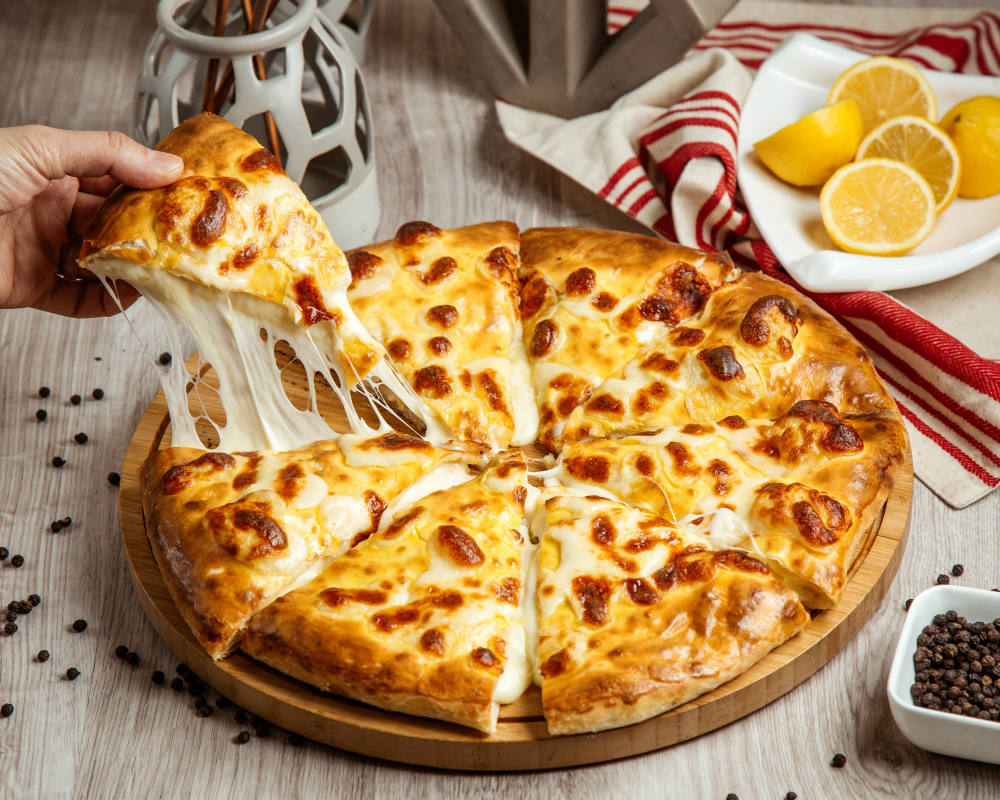
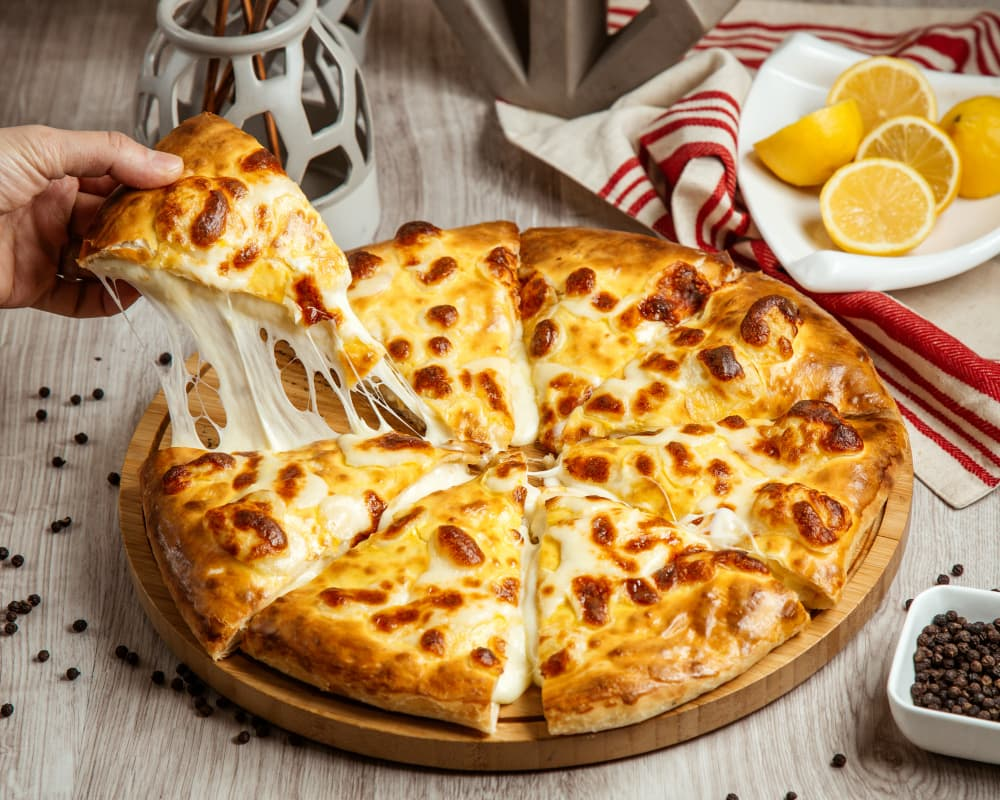
feat: fotos representativas dos sabores (Unsplash) e destaques explicitos
- 7 fotos novas do Unsplash (licenca Unsplash, sem marca d'agua), conferidas uma a uma:
  margherita, brocolis, frango-brocolis, bolonhesa, milho, calabresa, presunto
- 23 sabores ligados a fotos por grupo de sabores semelhantes; sabores sem foto fiel ficam no placeholder
- calabresa.jpg (era pepperoni) renomeada para peperone.jpg e usada so no sabor Peperone
- removida chocolate-com-morango.jpg (marca d'agua de banco de imagens); sabor volta ao placeholder
- 4-queijos.jpg e siciliana.jpeg recomprimidas (~1,2 MB para ~120 KB)
- FEATURED_FLAVOR_IDS agora e uma lista explicita de 8 sabores
- CREDITS.md com fotografo, URL e sabores de cada foto
- testes: formato dos caminhos, arquivos servidos como JPEG e destaques validos

diff --git a/src/app/data/menu.data.ts b/src/app/data/menu.data.ts
@@ -68,28 +68,28 @@ function flavor(
 const TRADICIONAIS: PizzaFlavor[] = [
   flavor('tradicional', 'Frango com Calabresa Ralada', 'Mussarela, frango, calabresa ralada, ovos, bacon e catupiry'),
   flavor('tradicional', 'Frango Catupiry', 'Mussarela, frango e catupiry', undefined, 'assets/img-flavors/frango-com-catupiry.jpg'),
-  flavor('tradicional', 'Fran-Palha', 'Mussarela, frango, catupiry e batata palha'),
+  flavor('tradicional', 'Fran-Palha', 'Mussarela, frango, catupiry e batata palha', undefined, 'assets/img-flavors/frango-com-catupiry.jpg'),
   flavor('tradicional', 'Frango com Cheddar', 'Mussarela, frango e cheddar'),
-  flavor('tradicional', 'Fran-Brócolis', 'Mussarela, frango e brócolis'),
+  flavor('tradicional', 'Fran-Brócolis', 'Mussarela, frango e brócolis', undefined, 'assets/img-flavors/frango-brocolis.jpg'),
   flavor('tradicional', 'Quatro Queijos', 'Mussarela, gorgonzola, provolone e catupiry', undefined, 'assets/img-flavors/4-queijos.jpg'),
-  flavor('tradicional', 'Quatro Queijos com Bacon', 'Mussarela, catupiry, gorgonzola, provolone e bacon'),
+  flavor('tradicional', 'Quatro Queijos com Bacon', 'Mussarela, catupiry, gorgonzola, provolone e bacon', undefined, 'assets/img-flavors/4-queijos.jpg'),
   flavor('tradicional', 'Carijó', 'Mussarela, frango, milho e ovos'),
   flavor('tradicional', 'Americana', 'Mussarela, calabresa, bacon, ovos e cebola', undefined, 'assets/img-flavors/americana.jpg'),
-  flavor('tradicional', 'Mussarela', 'Mussarela e tomate'),
-  flavor('tradicional', 'Brócolis', 'Mussarela, brócolis e bacon', 'Opção catupiry'),
+  flavor('tradicional', 'Mussarela', 'Mussarela e tomate', undefined, 'assets/img-flavors/margherita.jpg'),
+  flavor('tradicional', 'Brócolis', 'Mussarela, brócolis e bacon', 'Opção catupiry', 'assets/img-flavors/brocolis.jpg'),
   flavor('tradicional', 'Baiana', 'Mussarela, calabresa ralada, molho de pimenta, ovos e cebola'),
-  flavor('tradicional', 'Bolonhesa', 'Mussarela e molho bolonhesa'),
-  flavor('tradicional', 'Bolonhesa Catu-Cheddar', 'Mussarela, carne moída, catupiry e cheddar'),
-  flavor('tradicional', 'Quatro Queijos com Calabresa', 'Mussarela, gorgonzola, provolone, catupiry e calabresa'),
-  flavor('tradicional', 'Quatro Queijos com Lombo', 'Mussarela, gorgonzola, provolone, catupiry e lombo'),
-  flavor('tradicional', 'Quatro Queijos com Calabresa e Lombo', 'Mussarela, catupiry, provolone, gorgonzola, calabresa e lombo'),
+  flavor('tradicional', 'Bolonhesa', 'Mussarela e molho bolonhesa', undefined, 'assets/img-flavors/bolonhesa.jpg'),
+  flavor('tradicional', 'Bolonhesa Catu-Cheddar', 'Mussarela, carne moída, catupiry e cheddar', undefined, 'assets/img-flavors/bolonhesa.jpg'),
+  flavor('tradicional', 'Quatro Queijos com Calabresa', 'Mussarela, gorgonzola, provolone, catupiry e calabresa', undefined, 'assets/img-flavors/4-queijos.jpg'),
+  flavor('tradicional', 'Quatro Queijos com Lombo', 'Mussarela, gorgonzola, provolone, catupiry e lombo', undefined, 'assets/img-flavors/4-queijos.jpg'),
+  flavor('tradicional', 'Quatro Queijos com Calabresa e Lombo', 'Mussarela, catupiry, provolone, gorgonzola, calabresa e lombo', undefined, 'assets/img-flavors/4-queijos.jpg'),
   flavor('tradicional', 'Calabresa', 'Mussarela e calabresa', 'Opção cebola ou catupiry', 'assets/img-flavors/calabresa.jpg'),
-  flavor('tradicional', 'Calabresa Catu-Cheddar', 'Mussarela, calabresa, catupiry e cheddar'),
-  flavor('tradicional', 'Marguerita', 'Mussarela, tomate, parmesão e manjericão'),
-  flavor('tradicional', 'Milho com Bacon', 'Mussarela, milho e bacon'),
+  flavor('tradicional', 'Calabresa Catu-Cheddar', 'Mussarela, calabresa, catupiry e cheddar', undefined, 'assets/img-flavors/calabresa.jpg'),
+  flavor('tradicional', 'Marguerita', 'Mussarela, tomate, parmesão e manjericão', undefined, 'assets/img-flavors/margherita.jpg'),
+  flavor('tradicional', 'Milho com Bacon', 'Mussarela, milho e bacon', undefined, 'assets/img-flavors/milho.jpg'),
   flavor('tradicional', 'Paulista', 'Mussarela, palmito e ervilha'),
-  flavor('tradicional', 'Romana', 'Mussarela, presunto, tomate e parmesão'),
-  flavor('tradicional', 'Napolitana', 'Mussarela, tomate e parmesão'),
+  flavor('tradicional', 'Romana', 'Mussarela, presunto, tomate e parmesão', undefined, 'assets/img-flavors/presunto.jpg'),
+  flavor('tradicional', 'Napolitana', 'Mussarela, tomate e parmesão', undefined, 'assets/img-flavors/margherita.jpg'),
   flavor('tradicional', 'Crocante', 'Mussarela, bacon, catupiry e batata palha'),
   flavor('tradicional', 'Crocante Catu-Cheddar', 'Mussarela, bacon, catupiry, cheddar e batata palha'),
   flavor('tradicional', 'Calabresa com Champignon', 'Mussarela, calabresa e champignon'),
@@ -100,7 +100,7 @@ const TRADICIONAIS: PizzaFlavor[] = [
   flavor('tradicional', 'Alho com Bacon', 'Mussarela, alho e bacon'),
   flavor('tradicional', 'Siciliana', 'Mussarela, calabresa ralada, cebola, tomate e catupiry', undefined, 'assets/img-flavors/siciliana.jpeg'),
   flavor('tradicional', 'Portuguesa', 'Mussarela, presunto, ovos, ervilha, milho, cebola e azeitona', undefined, 'assets/img-flavors/portuguesa.jpeg'),
-  flavor('tradicional', 'Francesa', 'Mussarela, presunto, cebola, manjericão e creme de leite'),
+  flavor('tradicional', 'Francesa', 'Mussarela, presunto, cebola, manjericão e creme de leite', undefined, 'assets/img-flavors/presunto.jpg'),
   // CONFERIR: ingredientes cobertos por tarja branca no cardápio impresso.
   flavor('tradicional', 'Presunto Misto', ''),
   flavor('tradicional', 'Lombo com Milho', 'Mussarela, lombo defumado e milho', 'Opção catupiry'),
@@ -113,21 +113,21 @@ const ESPECIAIS: PizzaFlavor[] = [
   flavor('especial', 'Tomate Seco Especial', 'Mussarela, peperone, calabresa, tomate seco e champignon'),
   flavor('especial', 'Calabresa Especial', 'Mussarela, calabresa ralada, lombo, bacon, ovos, carne moída e catupiry'),
   flavor('especial', 'Nachos', 'Mussarela, carne moída, cheddar e doritos'),
-  flavor('especial', 'Frango Especial', 'Mussarela, frango, bacon, tomate e catupiry'),
-  flavor('especial', 'Mexicana', 'Mussarela, calabresa, pimentão, ovos, bacon e pimenta calabresa'),
+  flavor('especial', 'Frango Especial', 'Mussarela, frango, bacon, tomate e catupiry', undefined, 'assets/img-flavors/frango-com-catupiry.jpg'),
+  flavor('especial', 'Mexicana', 'Mussarela, calabresa, pimentão, ovos, bacon e pimenta calabresa', undefined, 'assets/img-flavors/siciliana.jpeg'),
   // CONFERIR: o cardápio impresso lista "ninho" (provavelmente "milho").
   flavor('especial', 'Mista', 'Mussarela, bacon, champignon, ervilha, lombo, ninho e palmito'),
-  flavor('especial', 'Peperone', 'Mussarela, peperone e azeitona'),
+  flavor('especial', 'Peperone', 'Mussarela, peperone e azeitona', undefined, 'assets/img-flavors/peperone.jpg'),
   flavor('especial', 'Pizzaiolo', 'Mussarela, calabresa, frango, palmito, milho e catupiry'),
   flavor('especial', 'Lombo Especial', 'Mussarela, lombo, palmito, bacon, ovos, milho, catupiry e cheddar'),
   flavor('especial', 'Bacon Especial', 'Mussarela, calabresa, bacon, ovos, tomate e catupiry'),
   flavor('especial', 'Canadense', 'Mussarela, lombo, tomate, palmito, cebola, bacon, azeitona e creme de leite'),
   flavor('especial', 'Caipira', 'Mussarela, frango, milho, palmito, bacon e ovos'),
   flavor('especial', 'Camponesa', 'Mussarela, milho, tomate, bacon, ovos e cheddar'),
-  flavor('especial', 'Bolonhesa Especial', 'Mussarela, molho bolonhesa, pimentão, ovos e catupiry'),
-  flavor('especial', 'Portuguesa Especial', 'Mussarela, presunto, bacon, ovos, palmito, ervilha, milho, cebola e azeitona'),
+  flavor('especial', 'Bolonhesa Especial', 'Mussarela, molho bolonhesa, pimentão, ovos e catupiry', undefined, 'assets/img-flavors/bolonhesa.jpg'),
+  flavor('especial', 'Portuguesa Especial', 'Mussarela, presunto, bacon, ovos, palmito, ervilha, milho, cebola e azeitona', undefined, 'assets/img-flavors/portuguesa.jpeg'),
   flavor('especial', 'Poderosa', 'Mussarela, peperone, tomate seco, champignon e gorgonzola'),
-  flavor('especial', 'Seis Queijos', 'Mussarela, provolone, gorgonzola, cheddar, catupiry e parmesão'),
+  flavor('especial', 'Seis Queijos', 'Mussarela, provolone, gorgonzola, cheddar, catupiry e parmesão', undefined, 'assets/img-flavors/4-queijos.jpg'),
   flavor('especial', 'Strogonoff', 'Mussarela, strogonoff de carne e batata palha'),
   flavor('especial', 'Tomate Seco', 'Mussarela, tomate seco e champignon'),
 ];
@@ -143,7 +143,7 @@ const DOCES: PizzaFlavor[] = [
   flavor('doce', 'Romeu e Julieta', 'Mussarela, creme de leite, goiaba e leite condensado'),
   flavor('doce', 'Chocolate', 'Leite condensado e chocolate ao leite', 'Opção chocolate branco'),
   flavor('doce', 'Sonho de Valsa', 'Leite condensado, chocolate ao leite e sonho de valsa'),
-  flavor('doce', 'Chocolate com Morango', 'Leite condensado, chocolate ao leite, morango e suspiro', undefined, 'assets/img-flavors/chocolate-com-morango.jpg'),
+  flavor('doce', 'Chocolate com Morango', 'Leite condensado, chocolate ao leite, morango e suspiro'),
   flavor('doce', 'Banana com Nutella', 'Mussarela, leite condensado, banana e tiras de nutella'),
   flavor('doce', 'Ouro Branco', 'Leite condensado, chocolate ao leite e ouro branco'),
 ];
@@ -156,5 +156,14 @@ export const FLAVOR_CATEGORY_LABELS: Record<FlavorCategory, string> = {
   doce: 'Doces',
 };
 
-/** Sabores em destaque na home (os que já tinham foto no projeto). */
-export const FEATURED_FLAVOR_IDS: readonly string[] = FLAVORS.filter((f) => !!f.image).map((f) => f.id);
+/** Sabores em destaque na home: lista explícita dos mais populares e visuais (todos com foto). */
+export const FEATURED_FLAVOR_IDS: readonly string[] = [
+  'tradicional-calabresa',
+  'tradicional-frango-catupiry',
+  'tradicional-quatro-queijos',
+  'tradicional-portuguesa',
+  'tradicional-marguerita',
+  'tradicional-americana',
+  'tradicional-siciliana',
+  'tradicional-brocolis',
+];

diff --git a/test/menu.data.spec.ts b/test/menu.data.spec.ts
@@ -1,4 +1,4 @@
-import { CRUSTS, DRINKS, FLAVORS, PIZZA_SIZES } from '../src/app/data/menu.data';
+import { CRUSTS, DRINKS, FEATURED_FLAVOR_IDS, FLAVORS, PIZZA_SIZES } from '../src/app/data/menu.data';
 
 describe('menu.data', () => {
   it('sabores têm ids únicos', () => {
@@ -24,5 +24,36 @@ describe('menu.data', () => {
   it('bebidas e bordas têm ids únicos', () => {
     expect(new Set(DRINKS.map((d) => d.id)).size).toBe(DRINKS.length);
     expect(new Set(CRUSTS.map((c) => c.id)).size).toBe(CRUSTS.length);
+  });
+});
+
+describe('menu.data: fotos dos sabores', () => {
+  const withImage = FLAVORS.filter((f) => !!f.image);
+  const uniqueImages = Array.from(new Set(withImage.map((f) => f.image as string)));
+
+  it('toda foto segue o padrão assets/img-flavors/<nome>.jpg|jpeg', () => {
+    withImage.forEach((f) =>
+      expect(f.image).withContext(f.id).toMatch(/^assets\/img-flavors\/[a-z0-9-]+\.(jpg|jpeg)$/)
+    );
+  });
+
+  it('todo arquivo referenciado existe e é servido como JPEG', async () => {
+    expect(uniqueImages.length).toBeGreaterThan(0);
+    for (const image of uniqueImages) {
+      const response = await fetch(image);
+      expect(response.ok).withContext(image).toBeTrue();
+      expect(response.headers.get('content-type') ?? '').withContext(image).toContain('image/jpeg');
+    }
+  });
+
+  it('destaques da home existem, têm foto e são poucos', () => {
+    expect(FEATURED_FLAVOR_IDS.length).toBeGreaterThan(0);
+    expect(FEATURED_FLAVOR_IDS.length).toBeLessThanOrEqual(8);
+    expect(new Set(FEATURED_FLAVOR_IDS).size).toBe(FEATURED_FLAVOR_IDS.length);
+    FEATURED_FLAVOR_IDS.forEach((id) => {
+      const flavor = FLAVORS.find((f) => f.id === id);
+      expect(flavor).withContext(id).toBeDefined();
+      expect(flavor?.image).withContext(id).toBeTruthy();
+    });
   });
 });

diff --git a/src/assets/img-flavors/CREDITS.md b/src/assets/img-flavors/CREDITS.md
@@ -1,0 +1,33 @@
+# Créditos das fotos dos sabores
+
+Fotos novas: todas do [Unsplash](https://unsplash.com), sob a [Unsplash License](https://unsplash.com/license)
+(uso comercial livre, sem atribuição obrigatória; registrada aqui por cortesia). Nenhuma é do Unsplash+.
+Cada arquivo é a foto original recortada (proporção próxima de 4:3) e comprimida (largura até 1000 px, JPEG qualidade 75).
+Só o recorte e a compressão foram feitos; nenhum conteúdo foi alterado.
+
+| Arquivo | Fotógrafo | Página da foto no Unsplash | Licença | Sabores que usam |
+|---|---|---|---|---|
+| `margherita.jpg` | amin ramezani (@aminrmzni) | https://unsplash.com/photos/otZSAyb65_o | Unsplash License | Marguerita, Napolitana, Mussarela |
+| `brocolis.jpg` | Crazy Cake (@locrifa) | https://unsplash.com/photos/YgwXqOdLwOE | Unsplash License | Brócolis |
+| `frango-brocolis.jpg` | Mirko Fabian (@mirkofabian) | https://unsplash.com/photos/je47rnIvz20 | Unsplash License | Fran-Brócolis |
+| `bolonhesa.jpg` | Omar Hakeem (@omarhakeem) | https://unsplash.com/photos/H6fWzOFw9Yo | Unsplash License | Bolonhesa, Bolonhesa Catu-Cheddar, Bolonhesa Especial |
+| `milho.jpg` | Omar Hakeem (@omarhakeem) | https://unsplash.com/photos/iJsGIki8HNU | Unsplash License | Milho com Bacon |
+| `calabresa.jpg` | engin akyurt (@enginakyurt) | https://unsplash.com/photos/No_JZZHs6MU | Unsplash License | Calabresa, Calabresa Catu-Cheddar |
+| `presunto.jpg` | Maja Vujic (@majavujic87) | https://unsplash.com/photos/ZlTXcAVHSQU | Unsplash License | Romana, Francesa |
+
+## Fotos que já estavam no projeto
+
+Origem e licença **não documentadas** (vieram antes desta curadoria; só as duas pesadas foram recomprimidas).
+Vale confirmar com quem as adicionou.
+
+| Arquivo | Sabores que usam | Observação |
+|---|---|---|
+| `frango-com-catupiry.jpg` | Frango Catupiry, Fran-Palha, Frango Especial | |
+| `4-queijos.jpg` | Quatro Queijos, Quatro Queijos com Bacon / Calabresa / Lombo / Calabresa e Lombo, Seis Queijos | Recomprimida (1,2 MB para ~120 KB). Aparece uma mão segurando a fatia |
+| `portuguesa.jpeg` | Portuguesa, Portuguesa Especial | |
+| `americana.jpg` | Americana | Mostra azeitona preta e cogumelo, que não constam nos ingredientes da Americana |
+| `siciliana.jpeg` | Siciliana, Mexicana | Recomprimida (1,3 MB para ~110 KB). Mostra pimentão e rodelas de linguiça; combina com a Mexicana, mas o pimentão não consta na Siciliana |
+| `peperone.jpg` | Peperone | Era `calabresa.jpg` (pizza de pepperoni); renomeada. Não é foto de calabresa |
+
+`chocolate-com-morango.jpg` foi **removida**: tinha marca d'água de banco de imagens. O sabor Chocolate com Morango
+ficou sem foto (placeholder) até haver uma foto livre e fiel.
